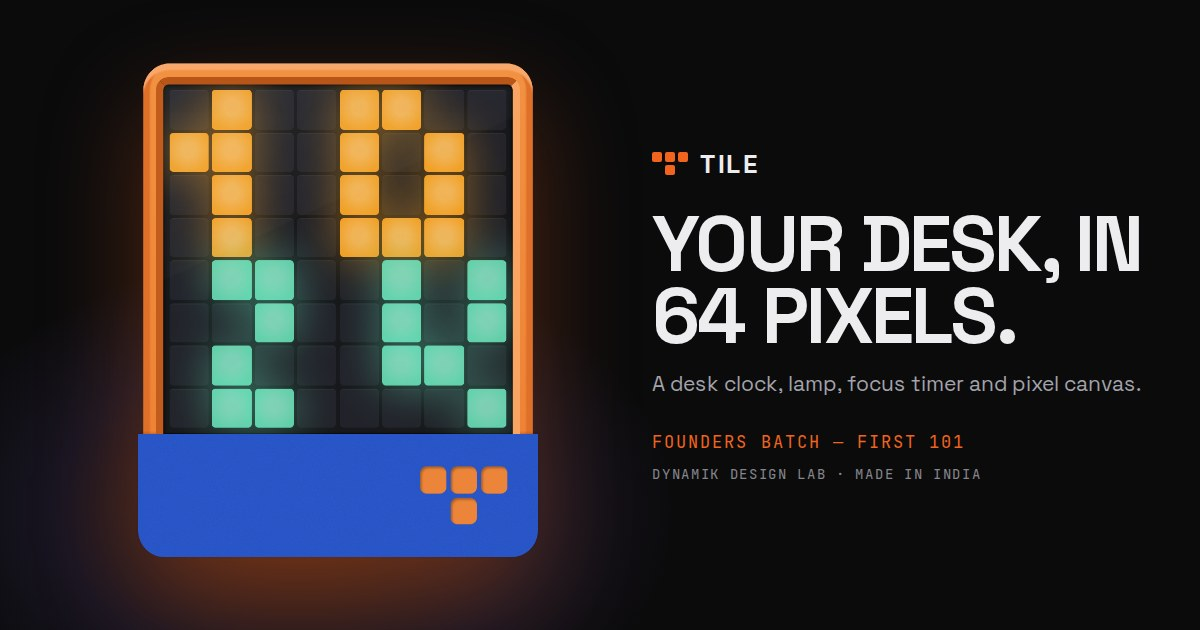
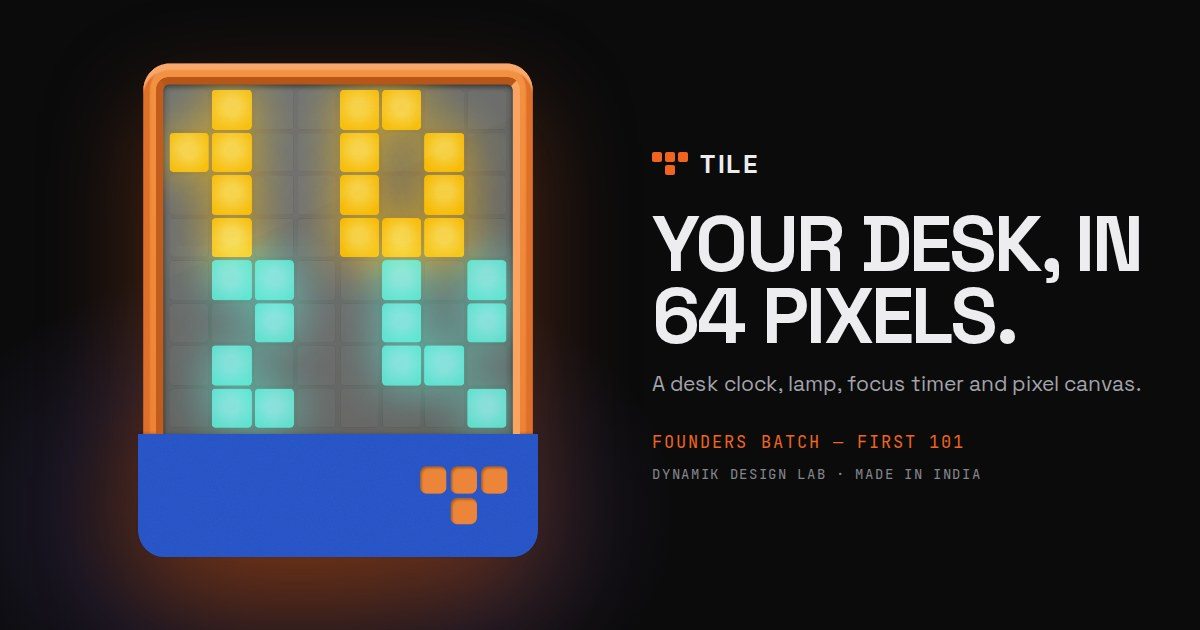
Tile device: mid-grey diffuser with brighter pixels, closer to the real product
- Unlit screen is an even mid-grey diffuser (no separate dark squares), with a hairline grid
- Lit pixels a little brighter and richer, with a stronger glow, so they stand out on the grey
- Applies to every simulated Tile; the Design reveal samples the same colours; share image regenerated

Claude-Session: https://claude.ai/code/session_01EoVtejs2yt3x5amj4Ynkzg

Changed region(s): [[0.1233, 0.1206, 0.4317, 0.6937]]

diff --git a/src/app/products/tile/TileDevice.tsx b/src/app/products/tile/TileDevice.tsx
@@ -31,8 +31,8 @@ export const SHAPE = {
   screen: { x: 0.1402, y: 0.055, w: 0.7196, h: 0.6737 },
   radius: 0.055, // outer corner radius, as a fraction of the container width
   orangeColor: '#F08A3C',
-  screenColor: '#17181B',
-  offColor: '#22232A',
+  screenColor: '#636462', // mid-grey diffuser, as the real screen looks when unlit
+  offColor: '#686968',
 } as const
 const box = (b: { x: number; y: number; w: number; h: number }) => ({
   left: `${(b.x * 100).toFixed(2)}%`,
@@ -86,7 +86,7 @@ const MARK_SQUARE: CSSProperties = {
   boxShadow: 'inset 0.3cqw 0.35cqw 0.45cqw rgba(0,0,0,0.32)',
 }
 // The screen opening: a chamfer stepping down from the bezel (shadowed top and left, lit right), then the
-// dark diffuser, recessed with a thin inner shadow. No border at the bottom: the diffuser meets the chin.
+// mid-grey diffuser, recessed with a thin inner shadow. No border at the bottom: the diffuser meets the chin.
 const OPENING_STYLE: CSSProperties = {
   position: 'absolute',
   left: `calc(${SCREEN.left} - ${BEVEL})`,
@@ -98,15 +98,15 @@ const OPENING_STYLE: CSSProperties = {
   borderWidth: `${BEVEL} ${BEVEL} 0 ${BEVEL}`,
   borderColor: '#B85619 #F9A462 transparent #C25C1C', // top right bottom left
   borderRadius: `calc(${SCREEN_R} + ${BEVEL}) calc(${SCREEN_R} + ${BEVEL}) 0 0`,
-  background: '#17181B',
-  boxShadow: 'inset 0 2px 4px rgba(0,0,0,0.7), inset 0 0 0 1px rgba(0,0,0,0.5)',
+  background: 'radial-gradient(120% 100% at 50% 40%, #6F706F 0%, #636462 60%, #575856 100%)',
+  boxShadow: 'inset 0 2px 5px rgba(0,0,0,0.55)',
 }
 const DIM = 'brightness(0.34) saturate(0.85)'
 
-// An unlit pixel: quiet rounded square, faint light along its top edge.
+// An unlit pixel: barely there, just a hairline grid on the diffuser, as on the real screen.
 const OFF: CSSProperties = {
-  background: '#22232A',
-  boxShadow: 'inset 0 1px 0 rgba(255,255,255,0.04)',
+  background: 'rgba(255,255,255,0.03)',
+  boxShadow: 'inset 0 0 0 0.5px rgba(0,0,0,0.10)',
 }
 
 interface Interactive {
@@ -160,6 +160,8 @@ export default function TileDevice({
           ...SCREEN,
           borderRadius: `${SCREEN_R} ${SCREEN_R} 0 0`,
           padding: '1.2%',
+          // Lit pixels a little brighter and richer so they stand out against the grey diffuser
+          filter: 'saturate(1.3) brightness(1.15)',
           columnGap: '0.95%',
           rowGap: '0.95%',
         }}

diff --git a/src/app/products/tile/tileSim.ts b/src/app/products/tile/tileSim.ts
@@ -7,7 +7,7 @@ export type Cells = (Lit | null)[]
 const rgbOf = (hex: number) => [(hex >> 16) & 255, (hex >> 8) & 255, hex & 255]
 
 // One LED at a brightness level (0–1): saturated colour with a slightly brighter centre and a soft
-// glow in its own colour. The level fades the pixel into the dark screen.
+// glow in its own colour. The level fades the pixel into the diffuser.
 export function led(hex: number, level = 1): Lit {
   // A colour like rgb(189,66,0) is orange light at ~74% strength, not brown: show the hue at full
   // brightness and fold the rest into the level.
@@ -19,7 +19,7 @@ export function led(hex: number, level = 1): Lit {
   return {
     center: `rgb(${mix(r)},${mix(g)},${mix(b)})`,
     edge: `rgb(${r},${g},${b})`,
-    glow: `rgba(${r},${g},${b},0.45)`,
+    glow: `rgba(${r},${g},${b},0.63)`,
     level: l,
   }
 }
